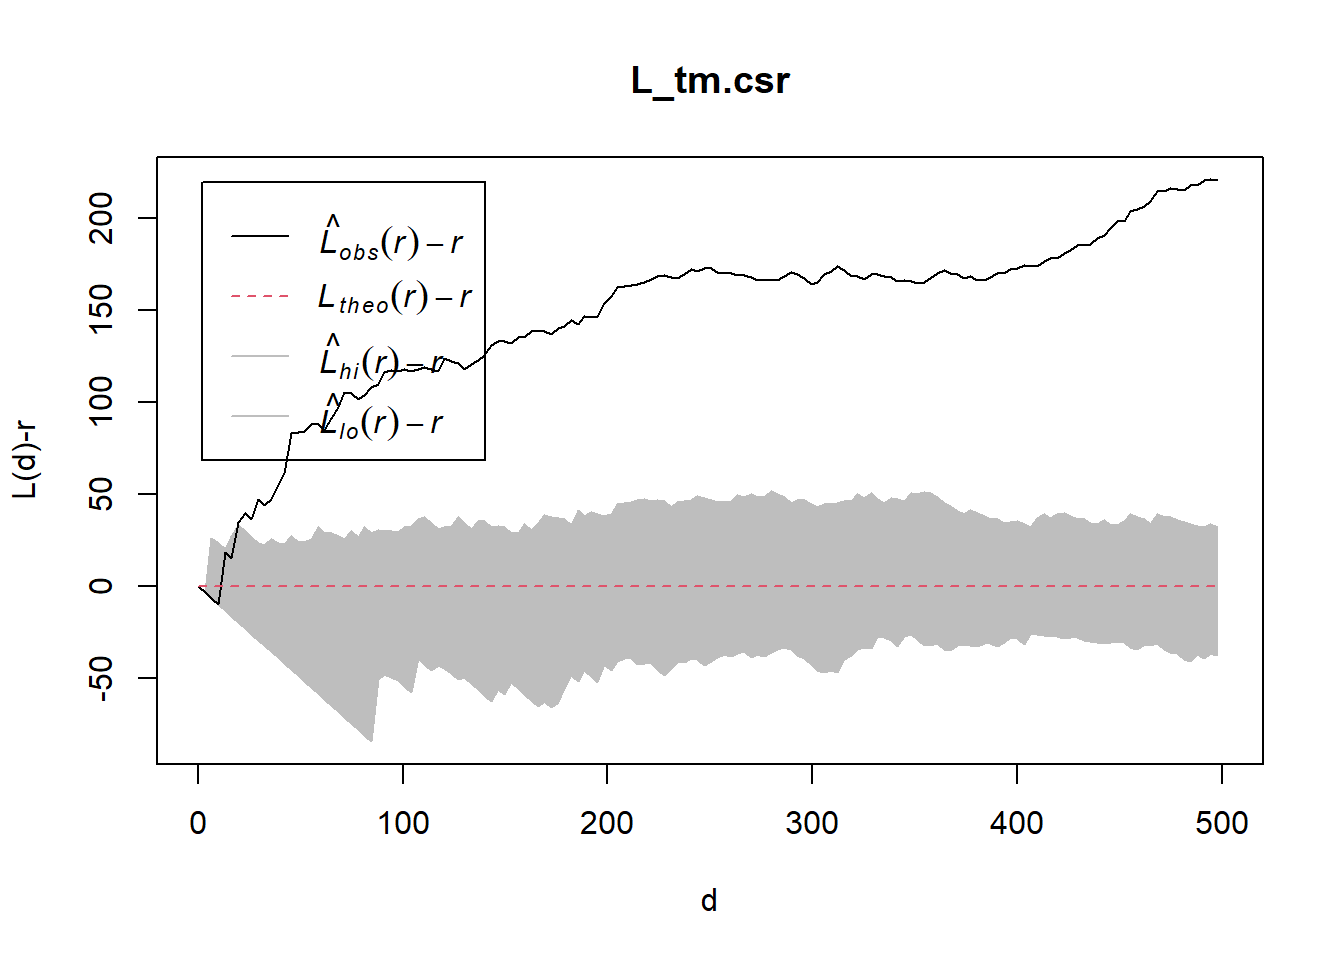
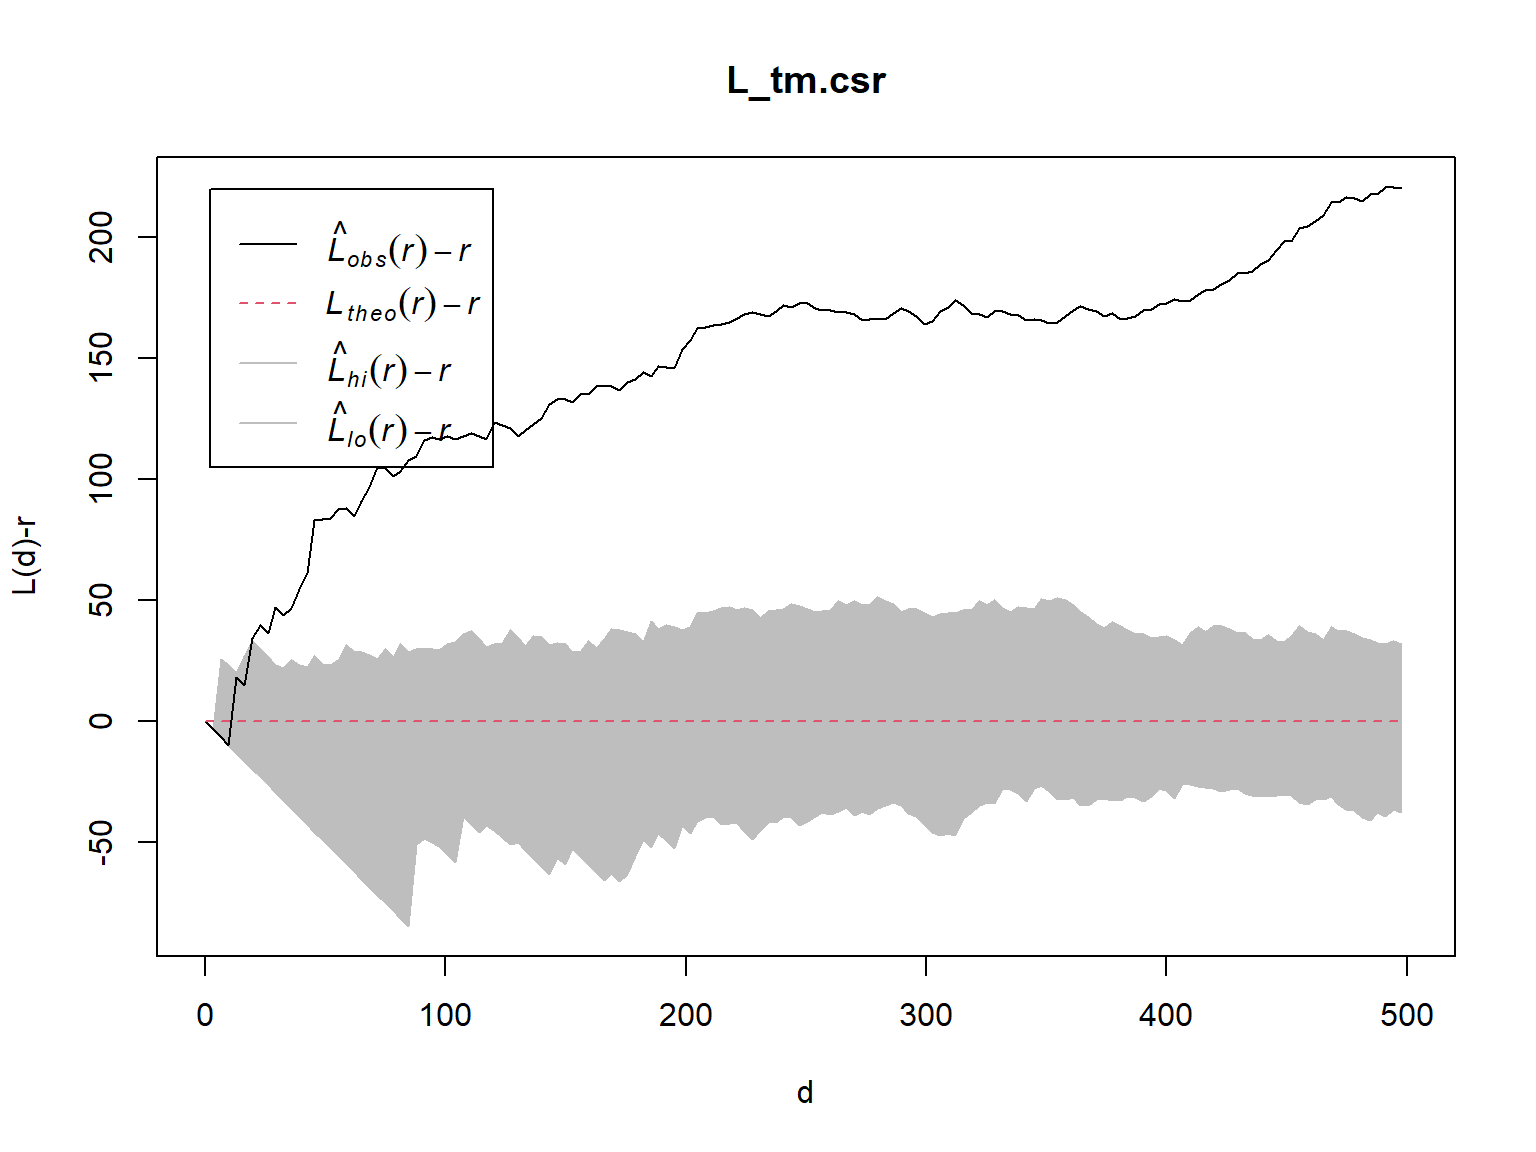
Commit after amending the size of the plots for L-function for Hands-on_Ex2B

diff --git a/_site/Hands-on_Ex/Hands-on_Ex02B/Hands-on_Ex02B.html b/_site/Hands-on_Ex/Hands-on_Ex02B/Hands-on_Ex02B.html
@@ -1006,7 +1006,7 @@ Done.</code></pre>
 <div class="cell-output-display">
 <div>
 <figure class="figure">
-<p><img src="Hands-on_Ex02B_files/figure-html/unnamed-chunk-24-1.png" class="img-fluid figure-img" width="672"></p>
+<p><img src="Hands-on_Ex02B_files/figure-html/unnamed-chunk-24-1.png" class="img-fluid figure-img" width="768"></p>
 </figure>
 </div>
 </div>
@@ -1082,13 +1082,27 @@ Done.</code></pre>
 </div>
 </div>
 <div class="cell">
-<div class="code-copy-outer-scaffold"><div class="sourceCode cell-code" id="cb35"><pre class="sourceCode r code-with-copy"><code class="sourceCode r"><span id="cb35-1"><a href="#cb35-1" aria-hidden="true" tabindex="-1"></a><span class="fu">plot</span>(L_tm.csr, . <span class="sc">-</span> r <span class="sc">~</span> r, <span class="at">xlab =</span> <span class="st">"d"</span>, <span class="at">ylab =</span> <span class="st">"L(d)-r"</span>, <span class="at">xlim =</span> <span class="fu">c</span>(<span class="dv">0</span>, <span class="dv">500</span>))</span></code></pre></div><button title="Copy to Clipboard" class="code-copy-button"><i class="bi"></i></button></div>
+<div class="code-copy-outer-scaffold"><div class="sourceCode cell-code" id="cb35"><pre class="sourceCode r code-with-copy"><code class="sourceCode r"><span id="cb35-1"><a href="#cb35-1" aria-hidden="true" tabindex="-1"></a><span class="fu">plot</span>(L_tm.csr, . <span class="sc">-</span> r <span class="sc">~</span> r, </span>
+<span id="cb35-2"><a href="#cb35-2" aria-hidden="true" tabindex="-1"></a>     <span class="at">xlab =</span> <span class="st">"d"</span>, <span class="at">ylab =</span> <span class="st">"L(d)-r"</span>, <span class="at">xlim =</span> <span class="fu">c</span>(<span class="dv">0</span>, <span class="dv">500</span>))</span></code></pre></div><button title="Copy to Clipboard" class="code-copy-button"><i class="bi"></i></button></div>
 <div class="cell-output-display">
 <div>
 <figure class="figure">
-<p><img src="Hands-on_Ex02B_files/figure-html/unnamed-chunk-27-1.png" class="img-fluid figure-img" width="672"></p>
+<p><img src="Hands-on_Ex02B_files/figure-html/unnamed-chunk-27-1.png" class="img-fluid figure-img" width="768"></p>
 </figure>
 </div>
+</div>
+</div>
+<div class="callout callout-style-default callout-note callout-titled">
+<div class="callout-header d-flex align-content-center">
+<div class="callout-icon-container">
+<i class="callout-icon"></i>
+</div>
+<div class="callout-title-container flex-fill">
+<span class="screen-reader-only">Note</span>Interpretation
+</div>
+</div>
+<div class="callout-body-container callout-body">
+<p>The observed L-function (black line) rises above the upper envelope bound early, and remains outside the envelope for the entire remaining distance range. This confirms that childcare centres in Tampines are consistently more clustered than 99 simulations of Complete Spatial Randomness would produce.</p>
 </div>
 </div>
 
